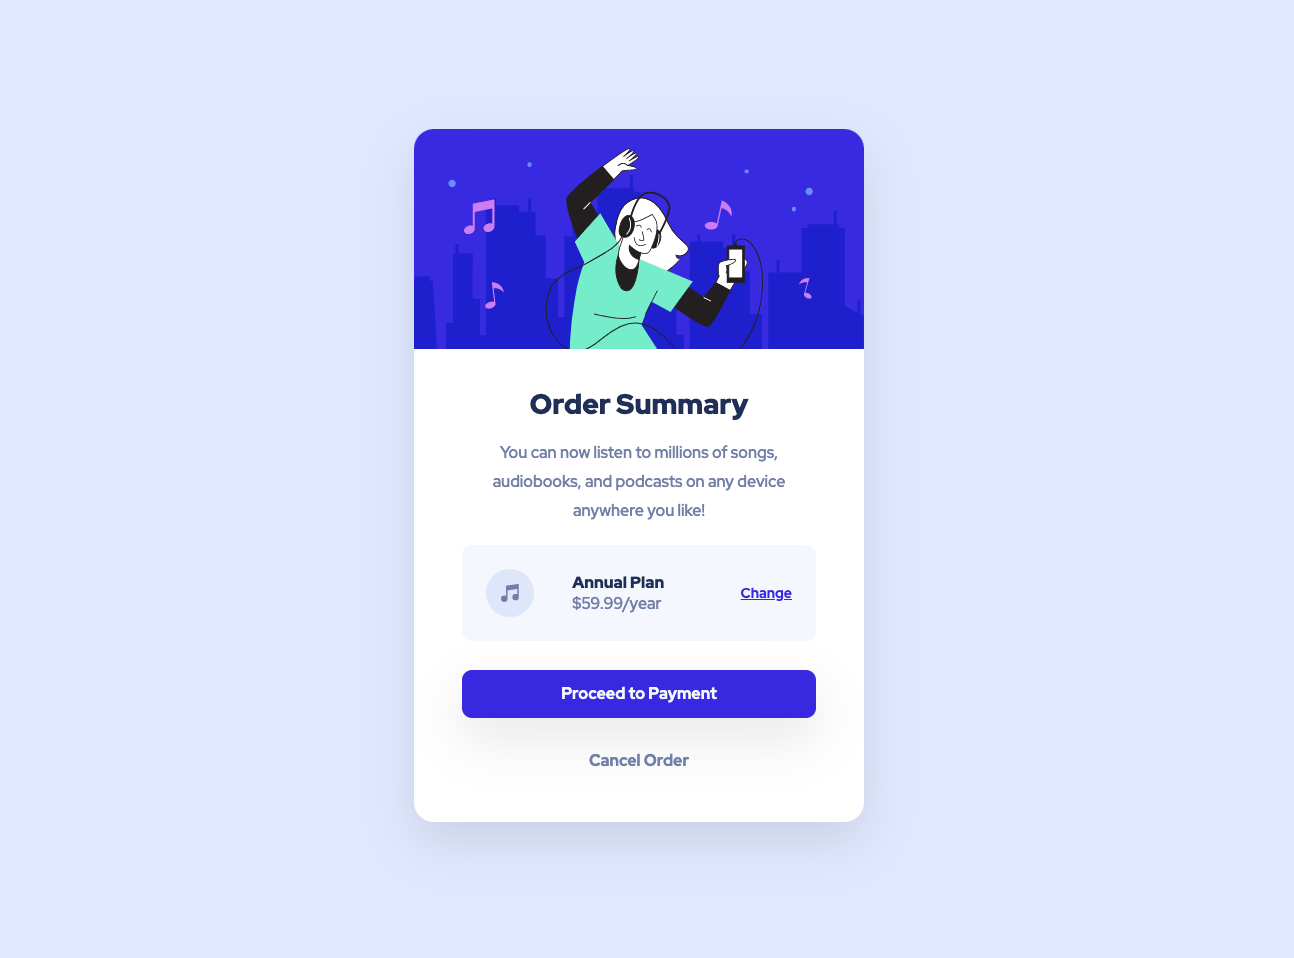
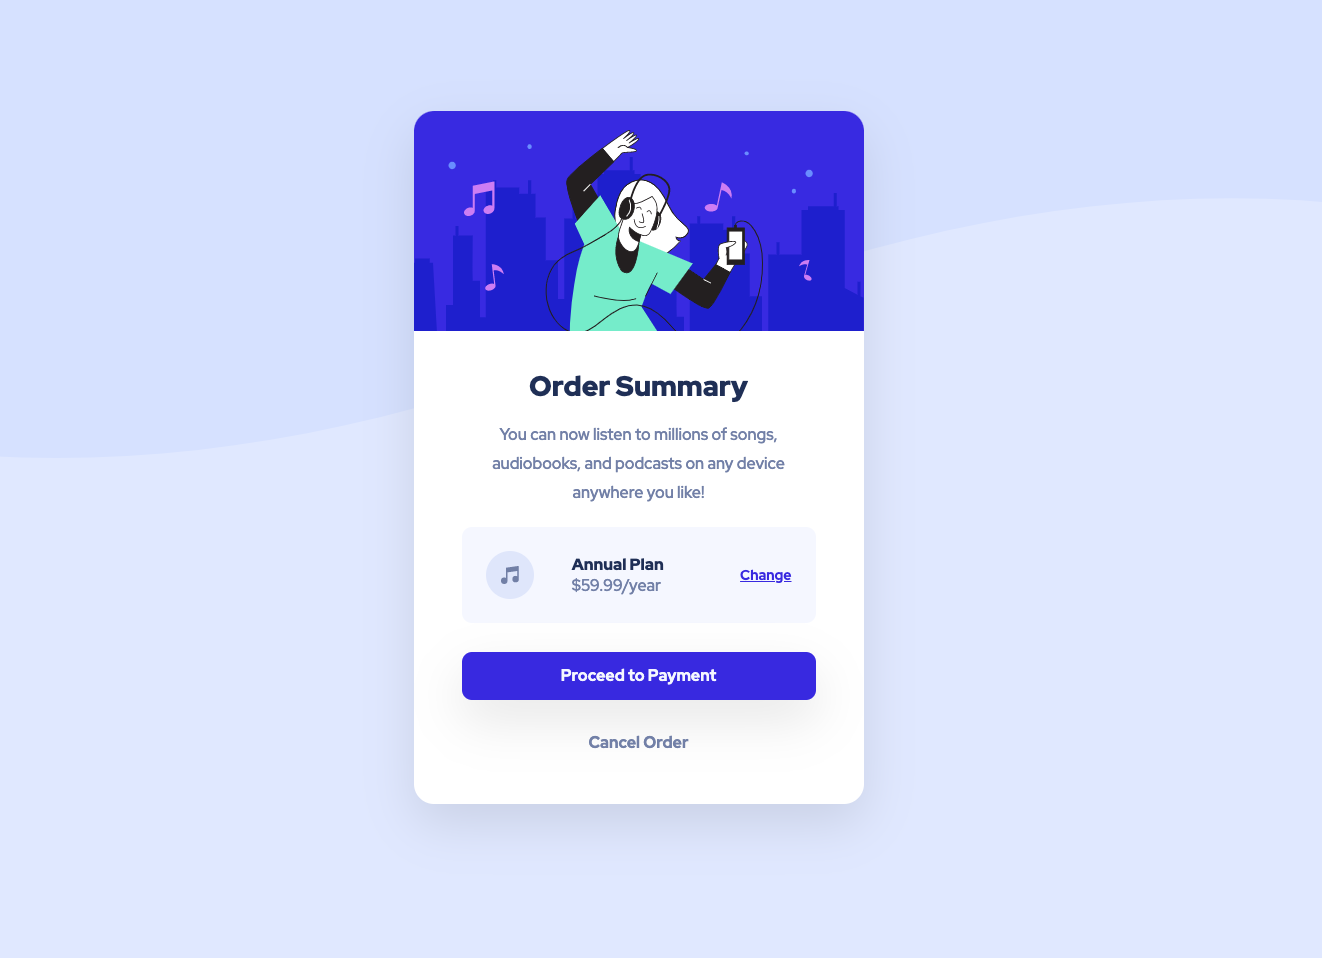
added background image

diff --git a/css/styles.css b/css/styles.css
@@ -57,19 +57,22 @@ textarea {
 
 /* Project Styles */
 body {
-  background-color: var(--color-pale-blue);
-  color: var(--color-desaturated-blue);
+  background: url(/images/pattern-background-mobile.svg) var(--color-pale-blue);
+  background-repeat: no-repeat;
+  background-size: 100% 33vw;
   font-family: "Red Hat Display", sans-serif;
-  font-size: 1.6rem;
   font-weight: var(--font-weight-light);
-  margin: 5vw;
+  font-size: 1.6rem;
+  color: var(--color-desaturated-blue);
 }
+
 main {
   display: grid;
   justify-items: center;
   align-items: start;
   max-width: 100%;
   min-height: 100vh;
+  margin: 5vw;
 }
 
 .card {
@@ -186,9 +189,13 @@ main {
 
 @media screen and (min-width: 768px) {
   body {
-    margin: 0;
+    background: url(/images/pattern-background-desktop.svg)
+      var(--color-pale-blue);
+    background-repeat: no-repeat;
+    background-size: 100% 50%;
   }
   main {
+    margin: 0;
     align-items: center;
   }
   .card {

diff --git a/index.html b/index.html
@@ -4,7 +4,7 @@
     <meta charset="UTF-8" />
     <meta name="description" content="QR Code Component" />
     <meta name="viewport" content="width=device-width, initial-scale=1.0" />
-    <link rel="stylesheet" href="css/styles.css" rel="preload" />
+    <link rel="stylesheet" href="css/styles.css" />
     <link
       rel="icon"
       type="image/png"
